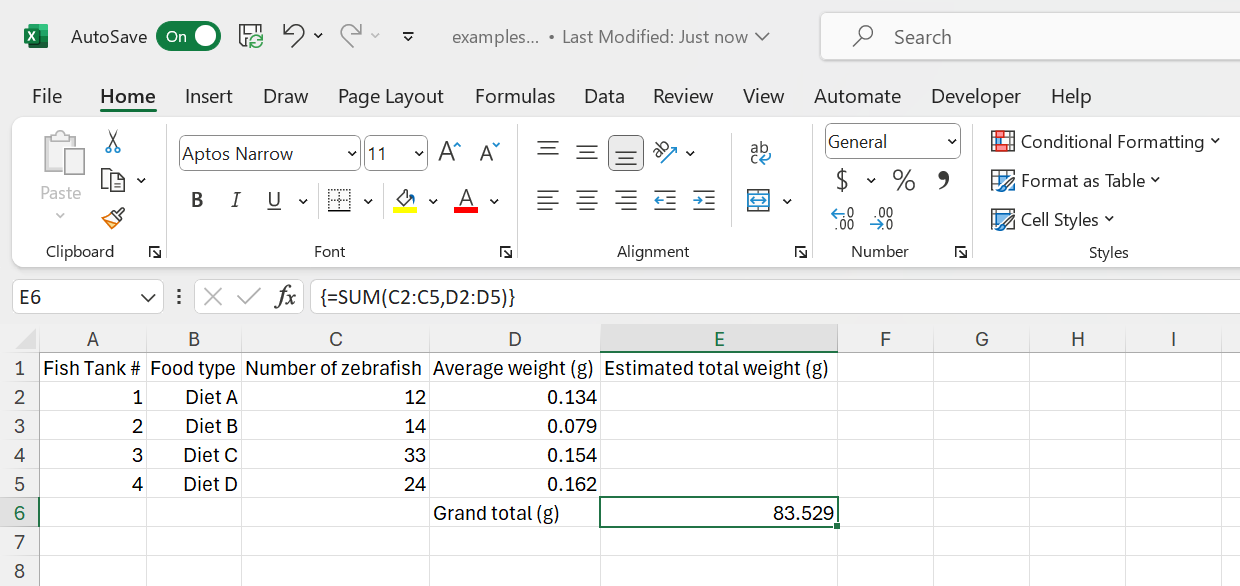
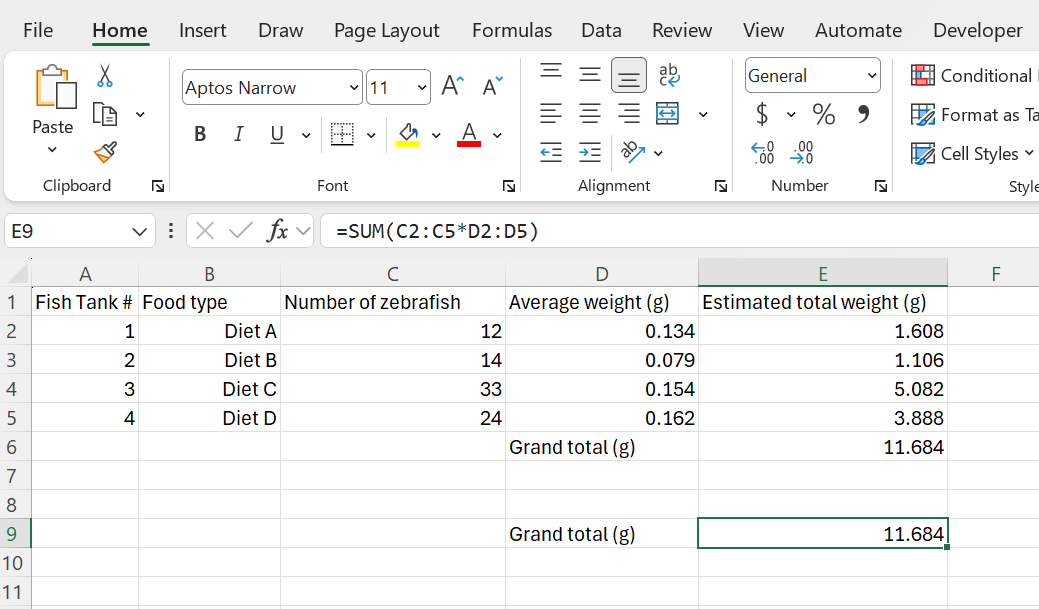
array formula's

diff --git a/excel/excel_08_data_analysis.md b/excel/excel_08_data_analysis.md
@@ -173,21 +173,23 @@ Let's have a look at an example:
 ![array](./pics_08_data_analysis/fig9.png)
 *<sub>Figure 9: Small dataset to perform a calculation.</sub>*
 
-What we would like to calculate is the total weight from all the fish in all of the fish tanks. Of course we can first calculate the total weight per tank and calculate the sum, but by using array formulas, we can do it all at once:
+What we would like to calculate is the total weight from all the fish in all of the fish tanks. Of course we can first calculate the total weight per tank and then calculate the sum:
+
+![array](./pics_08_data_analysis/fig10.png)
+*<sub>Figure 10: The result of the sum formula.</sub>*
+
+ But by using array formulas, we can do it all at once:
 
 ```
 =SUM(C2:C5*D2:D5)
 ```
 
-![array](./pics_08_data_analysis/fig10.png)
-*<sub>Figure 10: The result of the array formula.</sub>*
+![array](./pics_08_data_analysis/fig11.png)
+*<sub>Figure 11: Curly braces are a visual indication for an array formula.</sub>*
+
 
 As you can see, the answer is directly calculated. If you are not interested in the total weight of the fish within the individual fish tanks but just the total weight of all the fish (in all the tanks) this will save you adding an extra column. You can put the calculation directly on an analysis tab.
 
-There is just one detail left out. Although the formula works, it is advised to press the keyboard shortcut CTRL + SHIFT + ENTER to complete the array formula. As a result, Microsoft Excel surrounds the formula with curly braces (`{}`), which is an indication of an array formula, so that people know that we are dealing with an array formula.
-
-![array](./pics_08_data_analysis/fig11.png)
-*<sub>Figure 11: Curly braces are a visual indication for an array formula.</sub>*
 
 >Thus: An array formula is a formula that gets applied to more than one cell. But although an array formula always gets applied to more than one cell, array functions can return the result in a single cell (as the example above) or in multiple cells (see below).
 
@@ -207,6 +209,7 @@ Or the example that we have seen before:
 ![array](./pics_08_data_analysis/fig13.png)
 *<sub>Figure 13: Another array function with a multiple cell output.</sub>*
 
+>Be careful with dynamic array formulas. If a dynamic array formula cannot output its results because existing data or merged cells are blocking its path, a spill error will occur.
 
 ## Nesting functions
 
